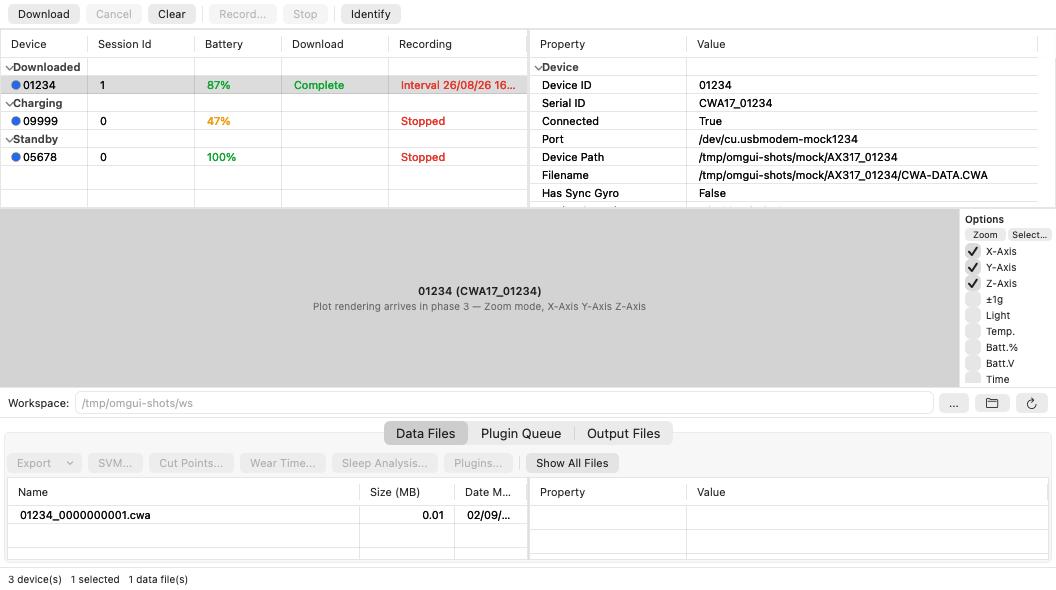
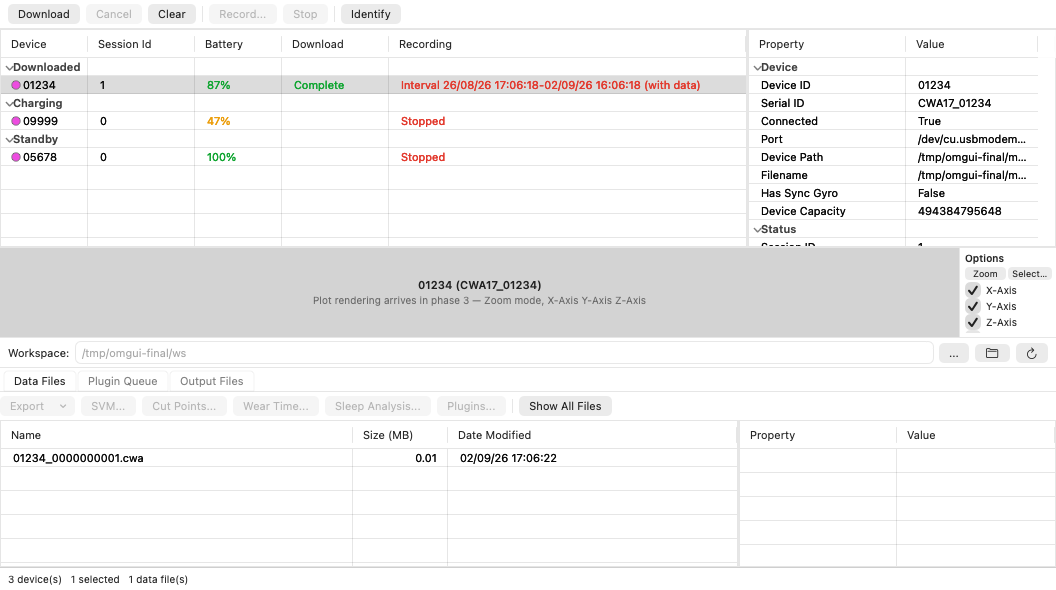
Docs: phase 2 notes and screenshots of the running app
Replaces the "split proportions are initial, not exact" deviation -- they are now
exact -- with what it took to get there, and adds the tab strip, dialog titles and
Edit-menu notes. Screenshots and transcript are a fresh --self-test run of the
release binary; the set now covers all three file tabs, Options and About.

Claude-Session: https://claude.ai/code/session_01DqWH2c7MdrBTkKo4Yu3r76

Changed region(s): [[0.0, 0.061, 1.0, 0.9763], [0.875, 0.061, 0.9062, 0.0915]]

diff --git a/refs/05-phase2-notes.md b/refs/05-phase2-notes.md
@@ -4,17 +4,19 @@ Everything below was verified on this machine (macOS 26.6, Xcode 26.6, Swift 6.3
 `MockBackend`. No hardware was available, so every device-side claim inherits the UNVERIFIED status
 recorded in `refs/04-phase1-notes.md`.
 
-Evidence for the acceptance criteria: `swift build -c release` clean; `swift test` = 166 tests, 0
-failures (75 from phase 1, 91 new); `refs/screenshots/*.png` are captures of the live window taken
-during a `--self-test` run of the release binary, and `/tmp` transcripts of that run show Download,
-Record, Clear and Identify completing against the mock.
+Evidence for the acceptance criteria: `swift build -c release` clean; `swift test` = 173 tests, 0
+failures (75 from phase 1, 98 new); `refs/screenshots/*.png` are captures of the live window taken
+during a `--self-test` run of the release binary, and `refs/screenshots/self-test-transcript.txt` is
+that run's log — it records the menu bar, the measured splitter distances, the toolbar enable state
+at each step, and Download / Cancel / overwrite-prompt / Record / Stop / Clear / Identify completing
+against the mock.
 
 ## Shape
 
 ```
 Sources/OmGuiCore   headless view models (no AppKit/SwiftUI) — testable without a window
 Sources/OmGui       the SwiftUI/AppKit shell
-Tests/OmGuiTests    91 cases over OmGuiCore
+Tests/OmGuiTests    98 cases over OmGuiCore
 ```
 
 `OmGuiCore` is a separate target only so `OmGuiTests` can link it; the executable target is still
@@ -37,6 +39,38 @@ Side benefits: the 1056x590 content size and the `MainForm` title are set exactl
 `.defaultSize` guesswork. Worth re-testing once the app is a signed bundle (phase 4) — it may just
 work then, but there is no reason to go back.
 
+**AppKit for the splitters, in one tree.** The five designer distances (218 / 747 / 89 / 738 / 562)
+are exact, and every splitter is draggable. Getting there took three attempts, and the shape of the
+final one is not obvious:
+
+* `HSplitView`/`VSplitView` distribute space by *ideal* size. Given two flexible panes they simply
+  halve the container, so the device table opened at 528 px rather than 747 and the preview strip at
+  ~180 rather than 89. There is no API to open a SwiftUI splitter at a point.
+* `NSSplitView`'s `addArrangedSubview` API lays out through Auto Layout and holding priorities;
+  in that mode `resizeSubviews(withOldSize:)` is never called, so `FixedPanel` cannot be reproduced,
+  and holding priorities alone ignore the panel minimums (opening the log collapsed the preview to
+  nothing). Plain `addSubview` plus an overridden `resizeSubviews`/`adjustSubviews` is required — and
+  even then NSSplitView re-distributes proportionally through some other path afterwards, so the
+  geometry is re-asserted at the end of `layout()`.
+* Nesting one `SplitPaneView` inside another's SwiftUI pane does not work: an `NSHostingView`
+  between two `NSSplitView`s does not reliably pass a frame change down, so opening the log left the
+  inner splitters believing they were still full height (they reported 537 px inside a 417 px
+  parent). `MainSplitView` therefore builds all four of `MainForm`'s containers as one AppKit tree
+  with `NSHostingView`s only at the five leaves. `SplitPaneView` (the generic two-pane wrapper) is
+  still used for `splitContainerFileProperties`, which sits inside the tab content and whose width —
+  the axis that matters for a vertical divider — never changes.
+
+The arithmetic lives in `OmGuiCore.SplitGeometry`, not in the view: a remembered `SplitterDistance`,
+the `Panel1MinSize`/`Panel2MinSize` clamp, and the three `FixedPanel` rules. Recomputing the panes
+from a stored distance rather than from the current frames is what stops one transient SwiftUI layout
+pass at a tiny size sticking forever, and the clamp is what keeps the log pane visible at all (562 is
+larger than the ~537 that container ever gets). `SplitGeometryTests` covers it.
+
+**The tab strip is hand-drawn.** SwiftUI's `TabView` renders no tab bar at all inside an
+`NSHostingView` — the tabs simply vanish — and where it does render it centres them, which a WinForms
+`TabControl` does not. `FilesTabView` draws the three tabs left-aligned along the top edge itself, and
+the selected index lives on `AppModel` so `--self-test` can capture all three tabs.
+
 **AppKit for the lists.** `devicesListView`, the two property grids and the three file lists are all
 one `NSOutlineView`-backed `GroupedTableView`: column headers, grid lines, full-row multi-select and
 WinForms-style group rows have no SwiftUI equivalent. Group rows arrive with a `nil` table column,
@@ -52,9 +86,12 @@ duplicated for testing.
 **`--self-test <dir>`** drives the real `AppModel` methods the toolbar buttons call, captures the
 window (and any attached sheet) to PNG at each step and prints a transcript. It exists because
 `screencapture` is unusable here: the terminal has no Screen Recording permission on this machine
-(`screencapture -x` fails with `could not create image from display`), so the screenshots in
+(`screencapture -x -l<id>` fails with `could not create image from window`), so the screenshots in
 `refs/screenshots/` are `NSView.cacheDisplay` renders of the live window instead. Same pixels, no
-TCC prompt.
+TCC prompt. The transcript also records `NSApp.mainMenu` and the measured splitter distances, so the
+menu bar and the layout are checkable without opening the app. The run restores the View flags it
+changes — it writes to the same `UserDefaults` domain the app uses, and leaving `Log` on made every
+later run start with the log pane open.
 
 ## Deviations from OMGUI, and why
 
@@ -62,10 +99,16 @@ TCC prompt.
   `splitContainerPreview.Panel1Collapsed = !previewToolStripMenuItem.Checked`, and Panel1 holds
   `splitContainerDevices` — so in OMGUI, unchecking "Preview" hides the *device table*. That is
   plainly a mislabelled panel rather than an intent; the port hides the `dataViewer` pane.
-* **Split proportions are initial, not exact.** The designer distances (218 / 747 / 89 / 738 / 562)
-  are supplied as `idealHeight`/`idealWidth` to `VSplitView`/`HSplitView`, which weighs them against
-  content size, so the preview strip opens taller than 89 px. Every splitter is draggable, and the
-  device pane, the device/property split and the file/property split land within a few pixels.
+* **The device splitter is draggable.** `splitContainerDevices` has `IsSplitterFixed = true`
+  upstream, i.e. it cannot be dragged at all. On a Mac the window is resized far more freely, so the
+  splitter is left draggable; its `FixedPanel.None` (proportional) resize rule is reproduced.
+* **Dialog titles are a header row.** A WinForms dialog shows `Form.Text` in its title bar; a macOS
+  sheet has no title bar. "Recording Settings", "Options" and "About OmGui" are rendered as a header
+  line inside the sheet instead (`DialogTitleBar`), with the strings unchanged.
+* **The Edit menu is trimmed.** macOS appends "Writing Tools", "AutoFill", "Start Dictation…" and
+  "Emoji & Symbols" to any menu titled "Edit", and appends them again on each update. OMGUI's Edit
+  menu is Cut / Copy / Paste / Select All, so the extras are removed after `setMainMenu` and on each
+  `menuNeedsUpdate`.
 * **Channel check-box order follows the designer, not `refs/03`.** `tableLayoutPanel1` adds them as
   X, Y, Z, ±1g, Light, Temp., Batt.%, Batt.V, Time, Gyro-X, Gyro-Y, Gyro-Z. `refs/03 §1` lists the
   three gyro boxes after Z; the designer is authoritative, so `refs/03` is wrong on this point.
@@ -149,7 +192,7 @@ collapses `New Data` into `Devices`, so the "New Data" group never appears (`str
 still there if a later phase wants it). `MockBackend` cannot model the eject/re-insert a real
 `FORMAT` causes, so the Clear flow's behaviour on hardware remains risk 4 in `refs/04`.
 
-## Test coverage (91 new cases)
+## Test coverage (98 new cases)
 
 * `RecordingSettingsTests` — every `updateWarningMessages` flag and every `labelRateRangeSetting`
   branch as a separate vector (including the three AX6 firmware rules from `refs/04` risk 7), the
@@ -164,6 +207,9 @@ still there if a later phase wants it). `MockBackend` cannot model the eject/re-
   a full download to completion with the `.part` rename, both overwrite-prompt answers, cancel,
   the download log line, clear/stop/record commit sequences against `MockBackend`, the config log
   line, the failure-message wording, and the identify blink sequence.
+* `SplitGeometryTests` — the `SplitterDistance` clamp, all three `FixedPanel` rules against the real
+  designer numbers, the degenerate-container guard, and the invariant that the panes always fill the
+  container and never go below `Panel1MinSize`.
 * `SettingsAndRowTests` — Options persistence and the recent-folder rules, `recordSetup.xml`
   round-trip, every device-row cell text and colour, the group order, the six toolbar enable rules,
   and the plugin queue.
